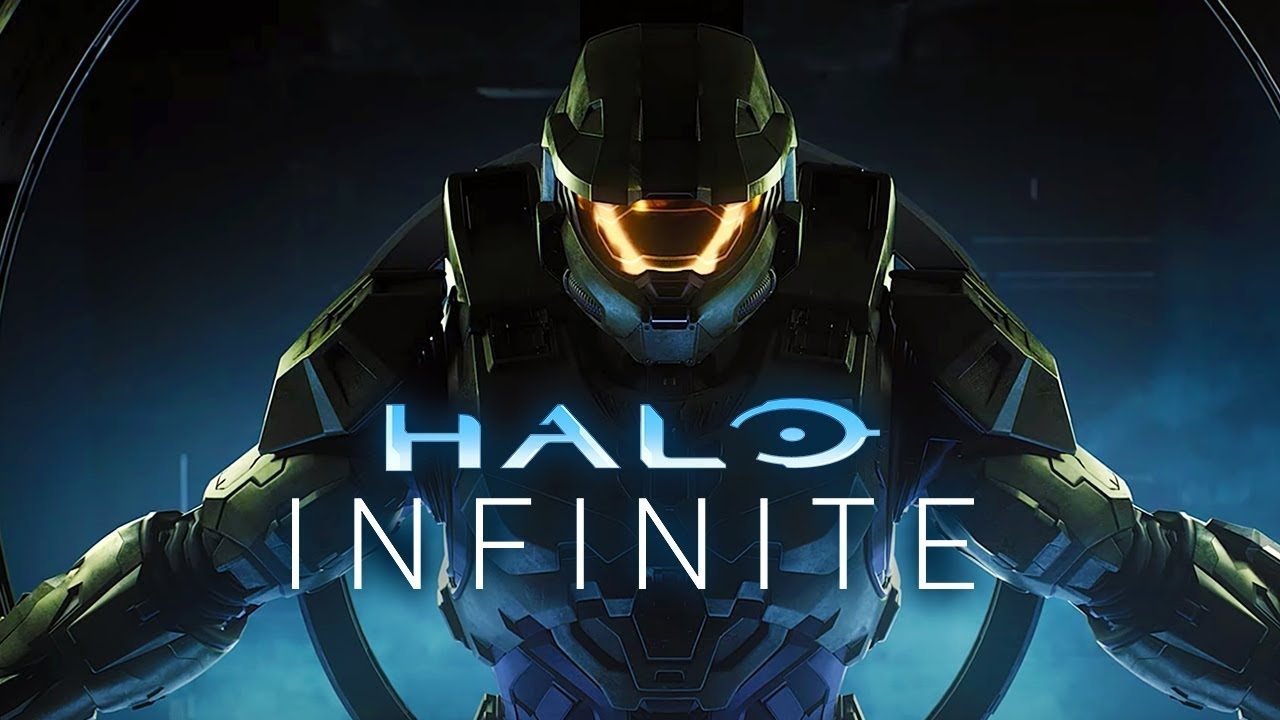
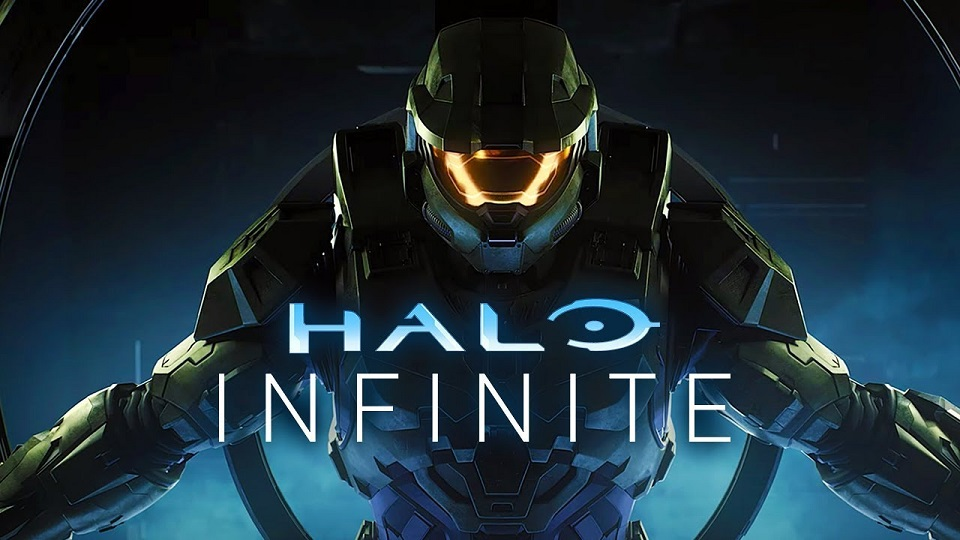
fixes 2

diff --git a/index.html b/index.html
@@ -179,7 +179,7 @@
                   <!-- <p>Some text in the Modal..</p> -->
                   <div class="row">
                     <div class="col-lg-4 d-flex justify-content-center p-3">
-                      <img src="assets/img/mojaslika.jpeg" class="" alt="profilepic">
+                      <img src="assets/img/mojaslika.jpeg" class="rounded" alt="profilepic">
                     </div>
                     <div class="col-lg-8 pt-3 p-3">
                       <h3 class="text-light">Predrag Ilijev</h3>

diff --git a/assets/css/style.css b/assets/css/style.css
@@ -666,7 +666,7 @@ section {
 /* Moj deo CSS-a */
 
 #hero {
-  background: url("../img/gaming3dark.png") center center;
+  background: url("../img/gaming3dark2.jpg") center center;
   background-size: cover;
 } 
 
